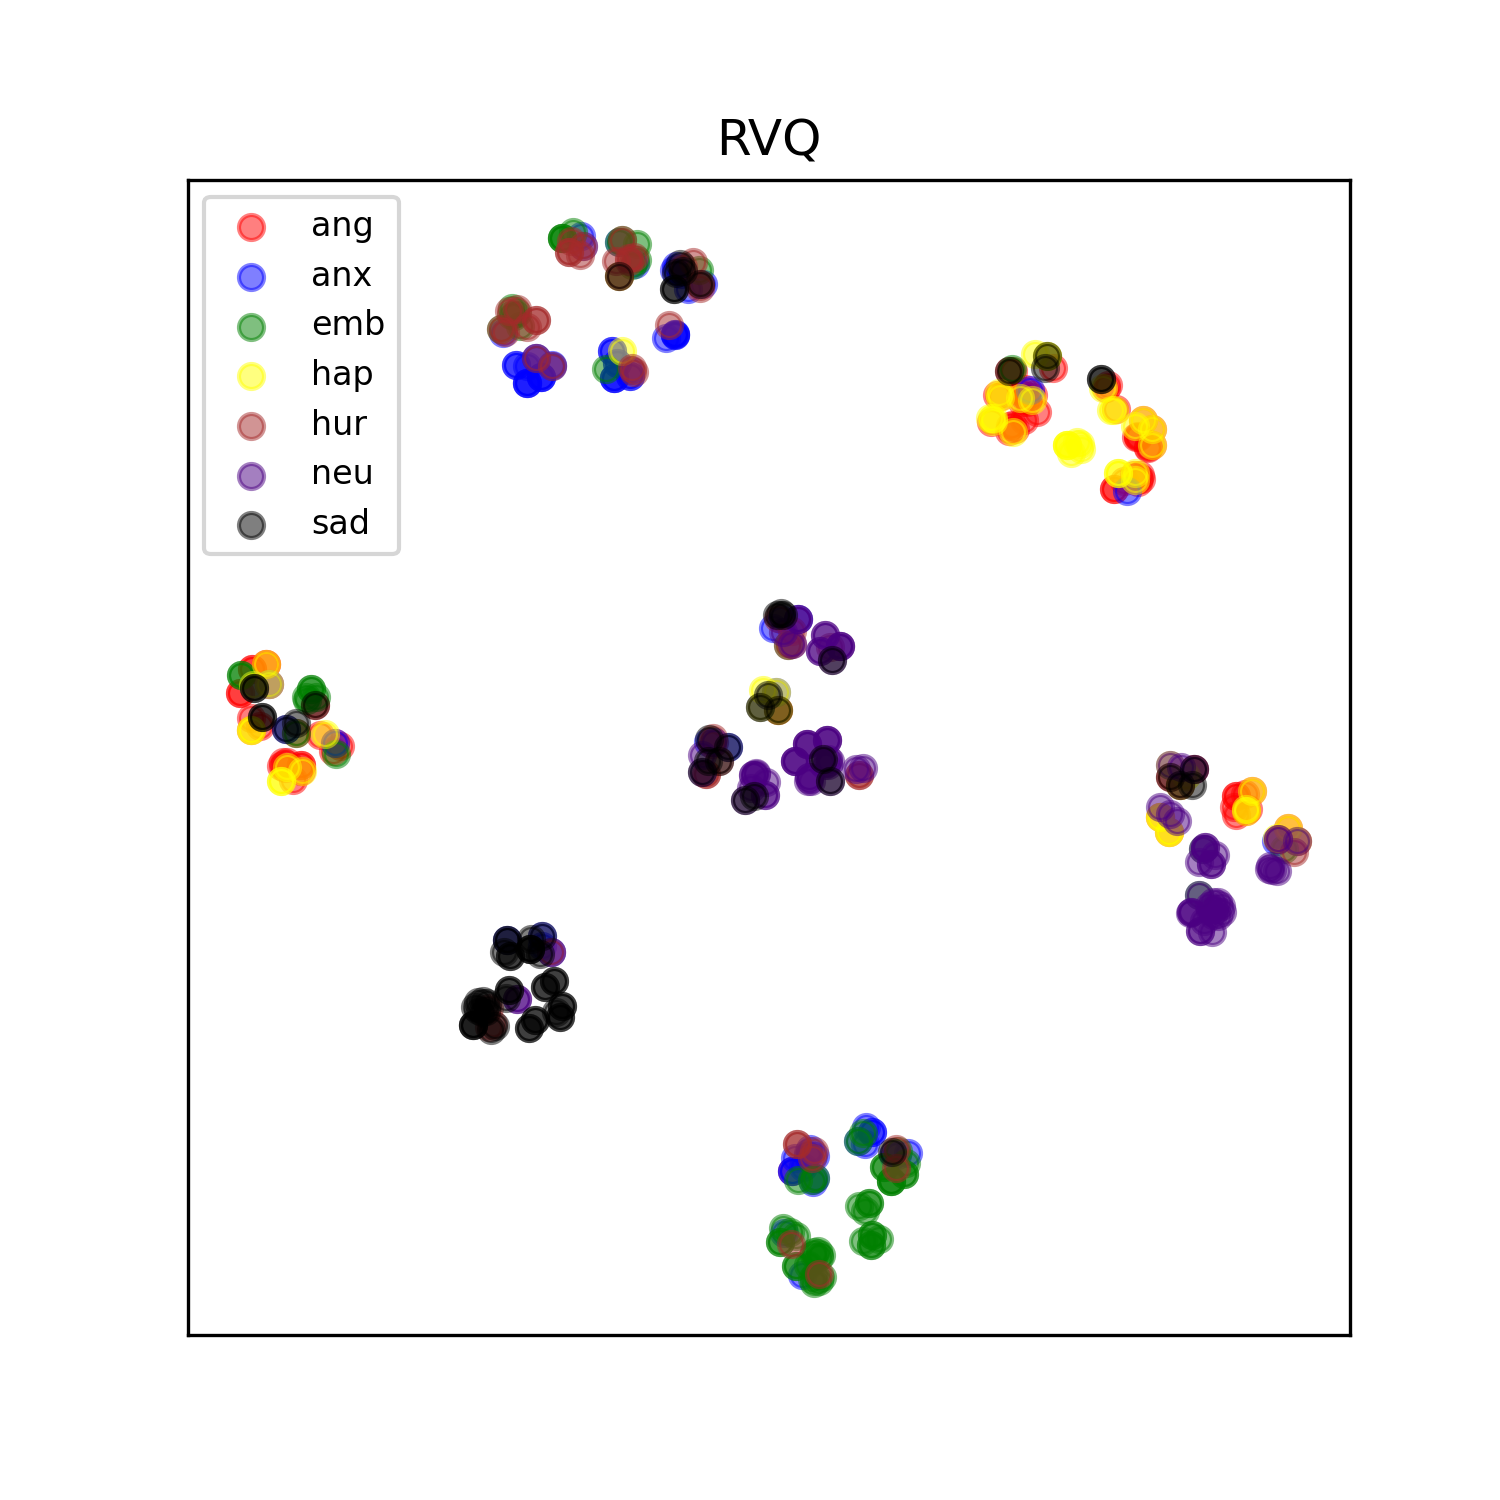
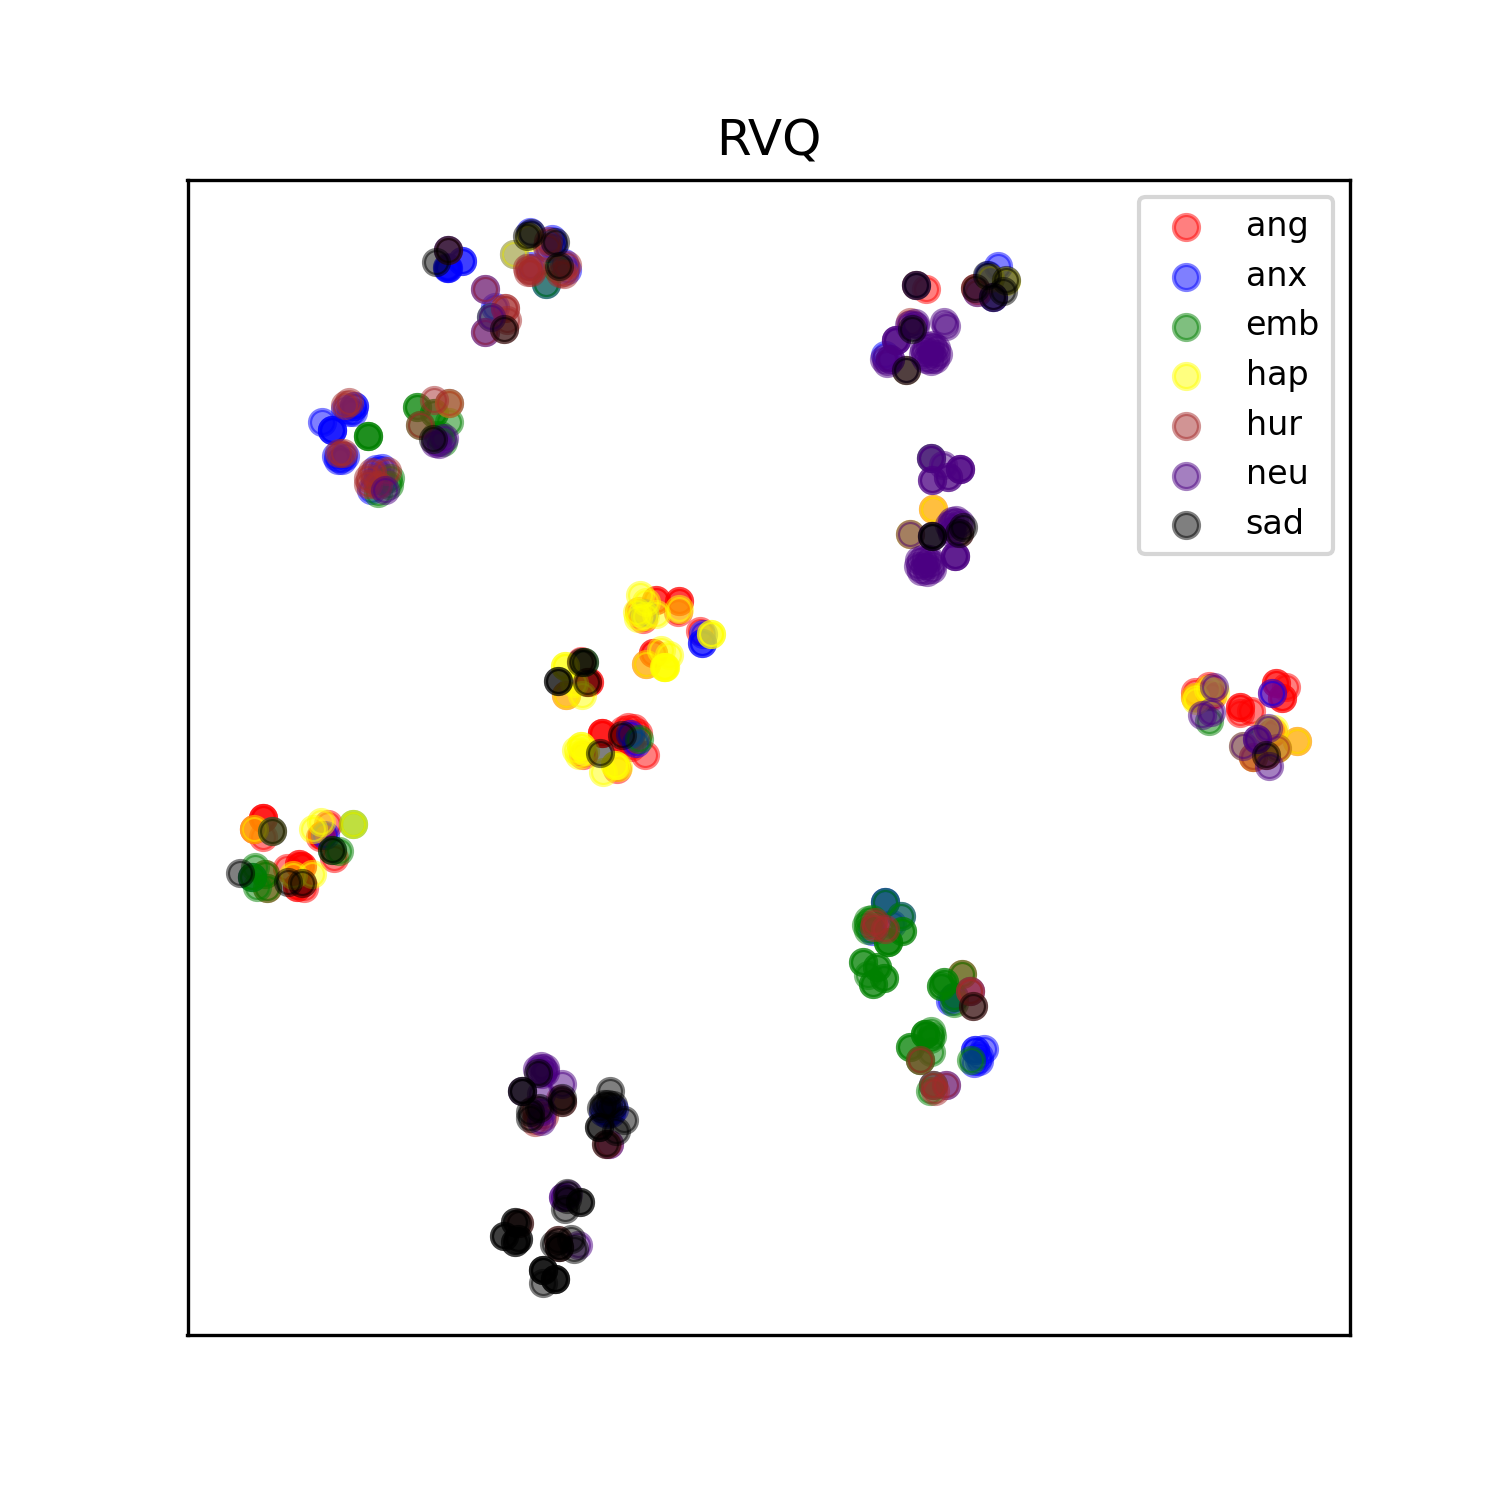
visualize

diff --git a/compute_sil_per.py b/compute_sil_per.py
@@ -1,0 +1,156 @@
+import argparse
+import json
+
+import numpy as np
+import torch
+from torch.utils.data import DataLoader
+from sklearn.manifold import TSNE
+import matplotlib
+matplotlib.use("Agg")
+import matplotlib.pylab as plt
+
+import pandas as pd
+
+from dataset import TextDataset
+from utils.model import get_model
+from utils.tools import get_configs_of, to_device
+from text import text_to_sequence
+
+def save_figure_to_numpy(fig):
+    # save it to a numpy array.
+    data = np.frombuffer(fig.canvas.tostring_rgb(), dtype=np.uint8)
+    data = data.reshape(fig.canvas.get_width_height()[::-1] + (3,))
+    return data
+
+def synthesize(device, model, batchs):
+    for batch in batchs:
+        batch = to_device(batch, device)
+        with torch.no_grad():
+            # Forward
+            output = model(
+                *(batch[2:]),
+                inference=True,
+            )
+            print(output[1].shape)
+
+if __name__ == "__main__":
+    parser = argparse.ArgumentParser()
+    parser.add_argument("--restore_step", type=str, required=True)
+    parser.add_argument(
+        "--dataset",
+        type=str,
+        required=True,
+        help="name of dataset",
+    )
+    parser.add_argument(
+        "--source",
+        type=str,
+        default='preprocessed_data/emo_kr_22050/test.txt',
+        help="path to a source file with format like train.txt and val.txt, for batch mode only",
+    )
+    args = parser.parse_args()
+
+    device = torch.device("cpu")
+    preprocess_config, model_config, train_config = get_configs_of(args.dataset)
+    configs = (preprocess_config, model_config, train_config)
+
+    path =  '/root/mydir/ICASSP2024_FS2-develop/ICASSP2024_FS2-develop/preprocessed_data/emo_kr_22050/test.txt'
+    with open(path, encoding='utf-8') as f:
+        infos = [line.strip().split("|") for line in f]
+
+    with open("preprocessed_data/emo_kr_22050/emotions.json") as f:
+        emotion_map = json.load(f)
+
+    file_path_list = []
+    emotions = []
+    for info in infos:
+        file_path_list.append(info[0])
+        emotions.append(emotion_map[info[2]])
+
+    model = get_model(args, configs, device, train=False)
+
+    styles = []
+    for i in range(len(file_path_list)):
+        file_path = file_path_list[i]
+        emotion = torch.tensor(emotions[i], device=device).unsqueeze(0)
+        print("file_path", file_path)
+        # Mel
+        mel = np.load(f'preprocessed_data/emo_kr_22050/mel/{file_path[:3]}-mel-{file_path}.npy')
+        mel = torch.from_numpy(mel).float().to(device).unsqueeze(0)
+
+        # pitch_path = f"/root/mydir/ICASSP2024_FS2-develop/ICASSP2024_FS2-develop/normalized_data/pitch_only/{file_path}_pitch.npy"
+        # energy_path = f"/root/mydir/ICASSP2024_FS2-develop/ICASSP2024_FS2-develop/normalized_data/energy_only/{file_path}_energy.npy"
+            
+        # pitch_mel = torch.from_numpy(np.load(pitch_path).T).to(device).unsqueeze(0)
+        # energy_mel = torch.from_numpy(np.load(energy_path).T).to(device).unsqueeze(0)
+
+        # style 추출
+        ref_embs, cls_loss = model.ref_enc(mel, emotion) #, pitch_mel, energy_mel)
+        style, _, _, codebooks = model.style_extractor(ref_embs, cls_loss)
+
+        styles.append(style.cpu().data[:, :])  # 전체 임베딩 (예: 768 차원 등)
+
+    emotions = np.array(emotions)
+    styles = torch.cat(styles, dim=0)
+    print("styles size:", styles.size())
+
+    # 색상 및 라벨 정의 (감정마다 구분)
+    colors = ['red','blue','green','yellow','brown','indigo','black']
+    labels = ['ang','anx','emb','hap','hur','neu','sad']
+
+    # 슬라이스 구간 (768차원 기준)
+    # 6개 구간: 각각 128차원씩
+    # 총 768 == 6 * 128
+    data_x_1 = styles[:, 0:256].numpy()
+    data_x_2 = styles[:, 256:512].numpy()
+    data_x_3 = styles[:, 512:].numpy()
+    data_x_4 = styles[:, :].numpy()  # 전체
+    data_x_5 = model.style_extract_fc(styles).detach().numpy()
+
+    def run_tsne(data, perplexity=20, n_iter=2000):
+        if data.shape[1] == 0:
+            return None  # 혹시 slice 구간이 잘못되어 0차원이 되면 무시
+        tsne_model = TSNE(n_components=2, random_state=0, init='random',
+                        perplexity=perplexity, n_iter=n_iter)
+        return tsne_model.fit_transform(data)
+
+    tsne_1 = run_tsne(data_x_1)
+    tsne_2 = run_tsne(data_x_2)
+    tsne_3 = run_tsne(data_x_3)
+    tsne_4 = run_tsne(data_x_4)
+    tsne_5 = run_tsne(data_x_5)
+
+
+    # 2x4 서브플롯 생성 (7개 쓰고, 1개는 비우는 형태)
+    fig, axes = plt.subplots(2, 3, figsize=(20, 10))
+
+    # Helper to scatter-plot
+    def scatter_tsne(ax, tsne_data, data_y, title):
+        if tsne_data is None:
+            ax.set_title(f"{title} - Not Available")
+            ax.grid(True)
+            return
+        for i, (c, label) in enumerate(zip(colors, labels)):
+            ax.scatter(tsne_data[data_y==i, 0],
+                       tsne_data[data_y==i, 1],
+                       c=c, label=label, alpha=0.5)
+        ax.set_title(title)
+        ax.grid(True)
+
+    # 각 subplot에 그리기
+    scatter_tsne(axes[0, 0], tsne_1, emotions, "styles[:, :256]")
+    scatter_tsne(axes[0, 1], tsne_2, emotions, "styles[:, 256:512]")
+    scatter_tsne(axes[0, 2], tsne_3, emotions, "styles[:, 512:]")
+    scatter_tsne(axes[1, 0], tsne_4, emotions, "styles[:, :]")
+    scatter_tsne(axes[1, 1], tsne_5, emotions, "style_extract_fc(styles)")
+
+    # 마지막 subplot은 비어있음
+    axes[1, 2].set_visible(False)
+
+    # 범례: 첫 번째 subplot에만 예시로 추가(필요 시 다른 방식으로 조정 가능)
+    axes[0, 0].legend(loc='best', fontsize=8)
+
+    plt.tight_layout()
+    plt.savefig('fig.png', dpi=300)
+    plt.close()
+
